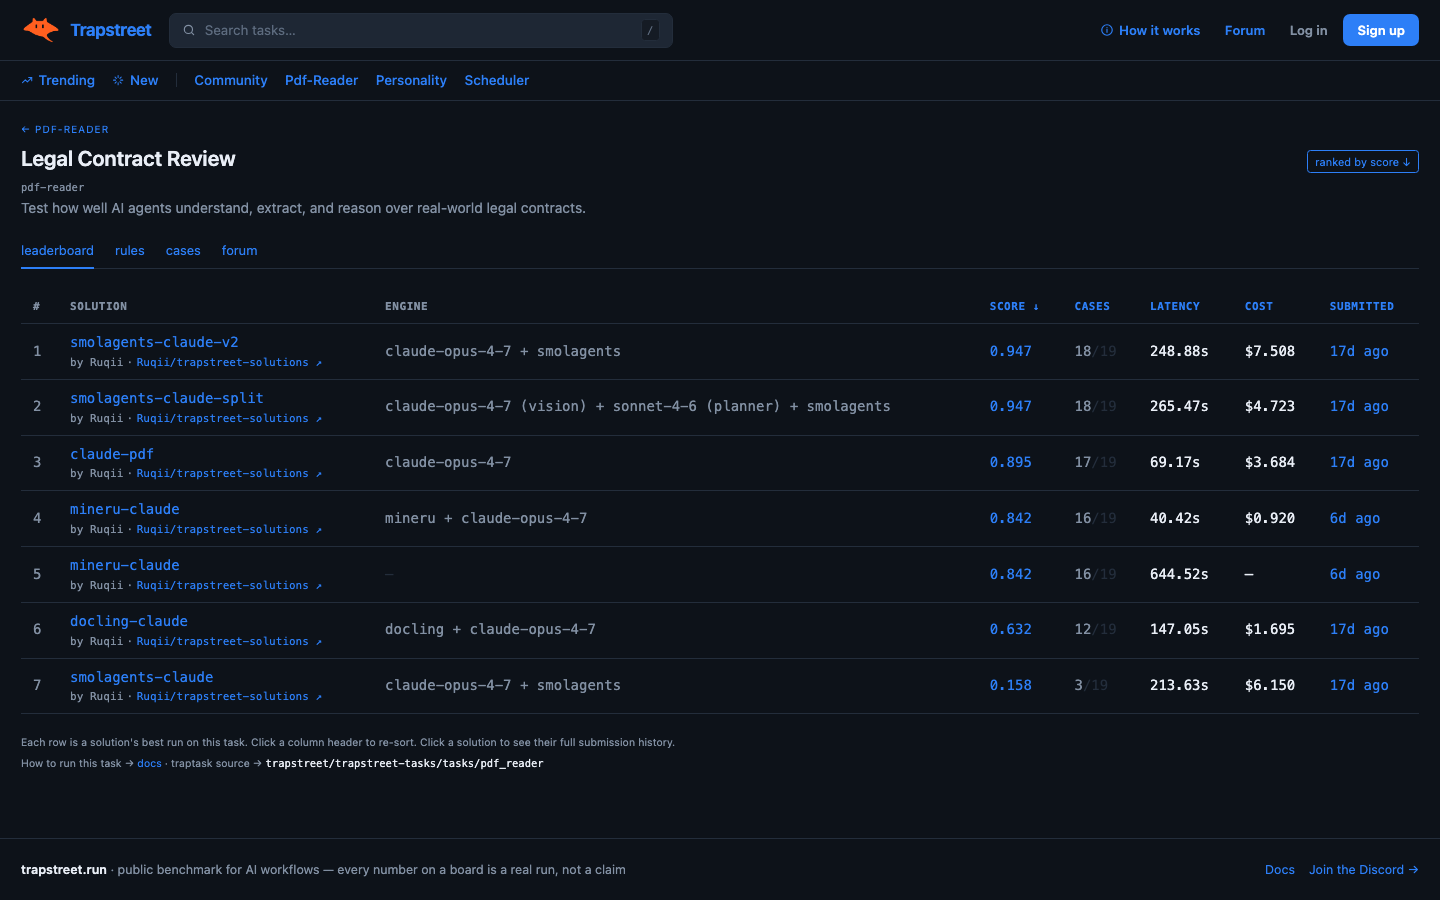
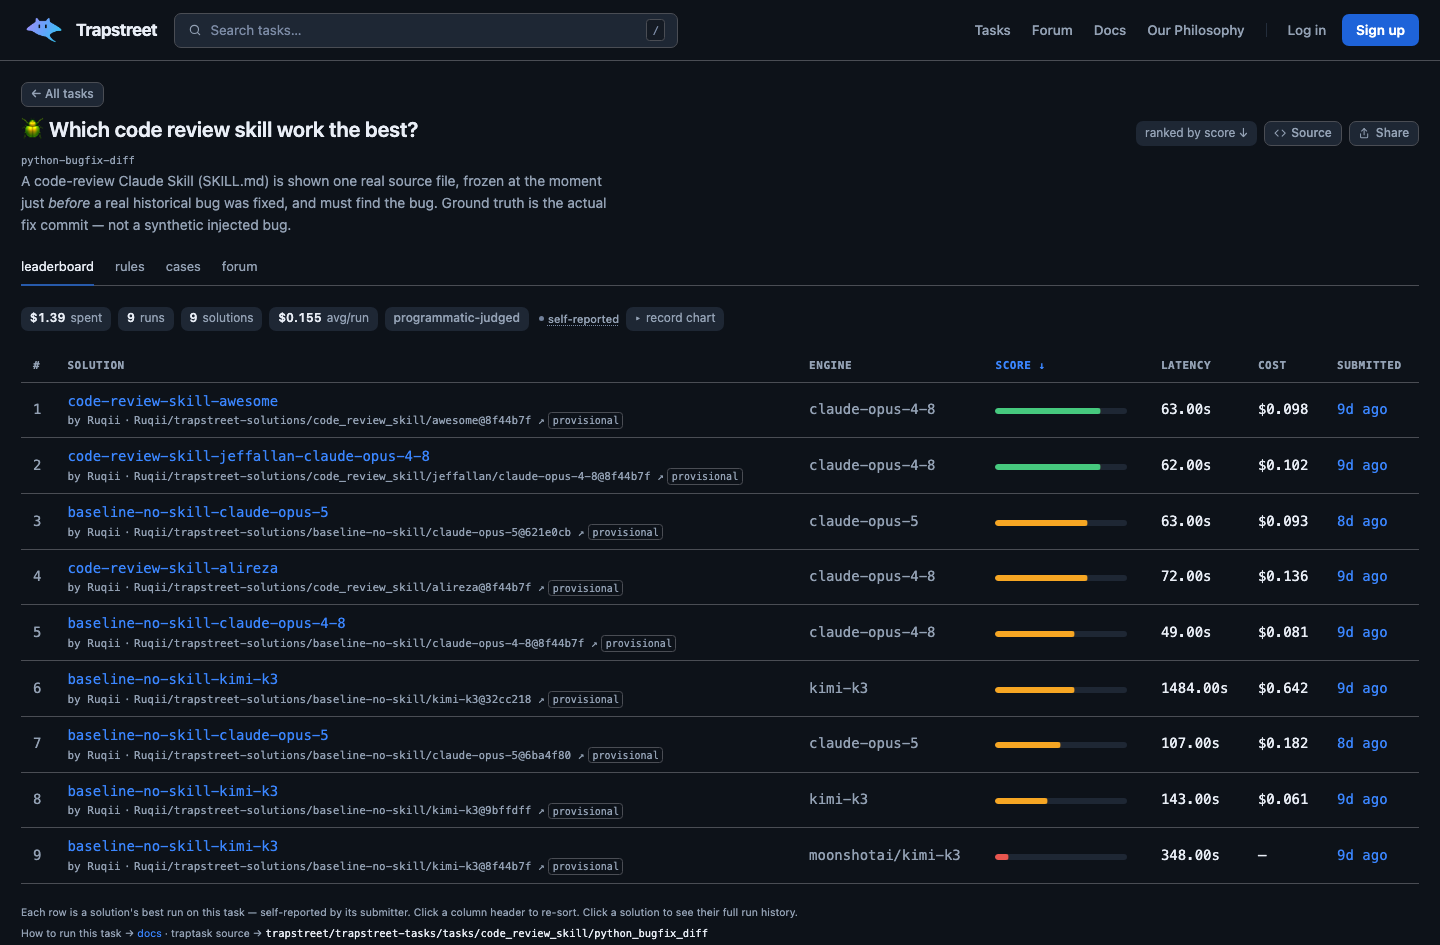
README: use a current screenshot of the live site
The hero was a stored PNG from the private app repo, captured 17 days ago and
showing pdf-reader — a task since superseded by pdf-reader-v2. Replaced with a
fresh 1440px capture of trapstreet.run/tasks/python-bugfix-diff, which is both
current UI and a better fit here: the board is literally four community
code-review skills measured against no-skill baselines.

Caption and the data section now describe what the screenshot shows, including
the 0.7/0.5 spread on the repeated opus-5 baseline that sits in the same image.

diff --git a/README.md b/README.md
@@ -27,10 +27,10 @@ This repository holds the **agent skills**: install them and your coding assista
 CLI, builds solutions, and authors tasks for you.
 
 <p align="center">
-  <img src="https://raw.githubusercontent.com/trapstreet/trapstreet-skills/main/docs/leaderboard.png" alt="A trapstreet.run leaderboard: seven solutions to the same legal-contract task, ranked by score, with cases passed, latency and cost per run" width="900">
+  <img src="https://raw.githubusercontent.com/trapstreet/trapstreet-skills/main/docs/leaderboard.png" alt="The python-bugfix-diff leaderboard on trapstreet.run: nine solutions ranked by score, showing engine, latency and cost per run, each row attributed to a public solution repository" width="900">
 </p>
 <p align="center">
-  <em>One task, seven solutions. The cheapest run that stays competitive costs $0.92; the top score costs $7.51.</em>
+  <em>The <a href="https://trapstreet.run/tasks/python-bugfix-diff">python-bugfix-diff</a> board: community code-review skills against no-skill baselines, same cases, same judge. Every row is pinned to a public <code>repo@commit</code> you can re-run.</em>
 </p>
 
 **Get started** (30 seconds):
@@ -87,8 +87,12 @@ viewable, but never ranked — the board only ranks entries that anyone can re-r
 
 ## Does a skill actually help?
 
-That question is itself a task. Four community code-review skills and a no-skill baseline,
-same 11 cases, same judge:
+That question is itself a task. On the board above, the two best code-review skills run on
+`claude-opus-4-8` and beat the no-skill `claude-opus-5` baseline — a skill on the smaller model
+ahead of the larger model without one. Whole board: 9 runs, $1.39.
+
+It reproduces on a second task. Four community skills and a no-skill baseline, same 11 cases,
+same judge:
 
 | # | Solution | Model | Score |
 |---|---|---|---|
@@ -101,10 +105,10 @@ same 11 cases, same judge:
 
 Every skill beat the bare model it ran on, and the best two matched or beat a larger bare model.
 
-The same experiment on [a harder task](https://trapstreet.run/tasks/python-bugfix-diff) is less
-flattering: the no-skill `opus-5` baseline scored 0.7 on one run and 0.5 on another — a spread
-wider than the gap between the best skill and the best baseline. One run proves nothing, which
-is the reason boards aggregate across independent users.
+The honest caveat is visible on the first board too: the no-skill `opus-5` baseline appears
+twice, at 0.7 and 0.5. The spread between two runs of the same thing is wider than the gap
+between the best skill and the best baseline. One run proves nothing — which is why boards
+aggregate across independent users and mark anything under three reproductions *provisional*.
 
 [Browse the boards →](https://trapstreet.run)
 
